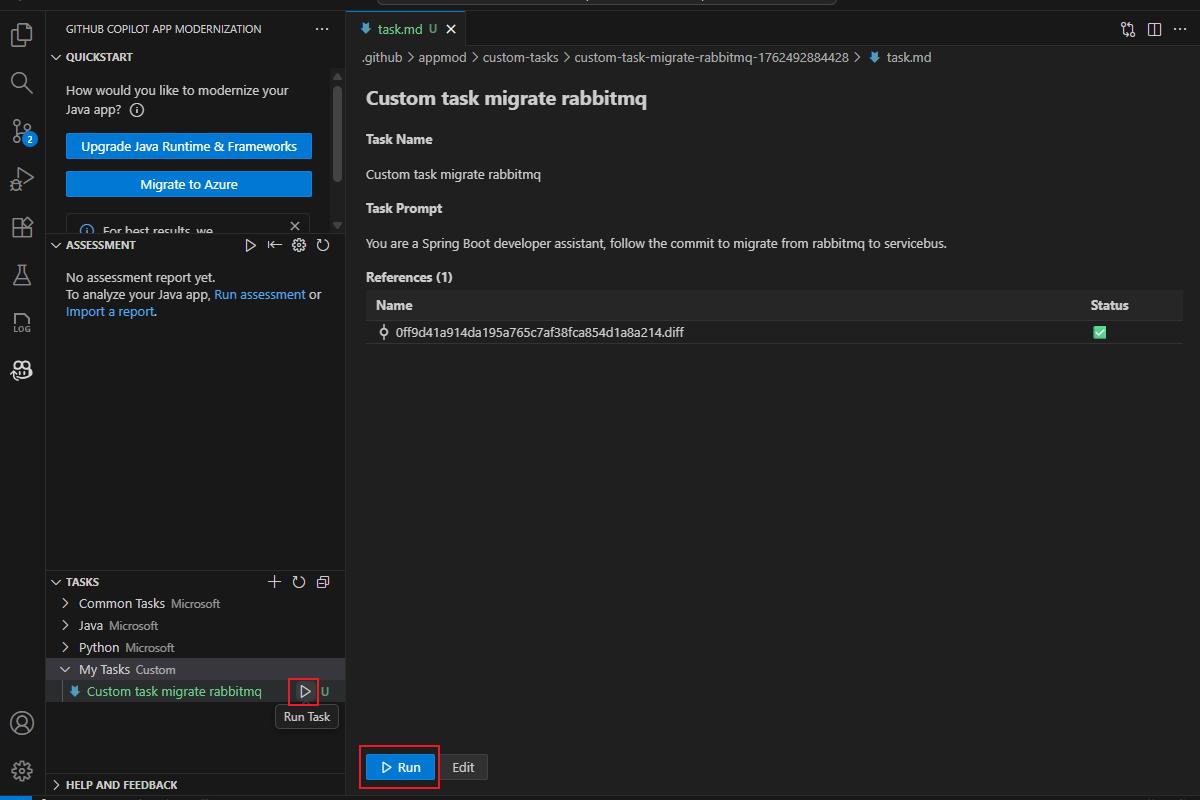
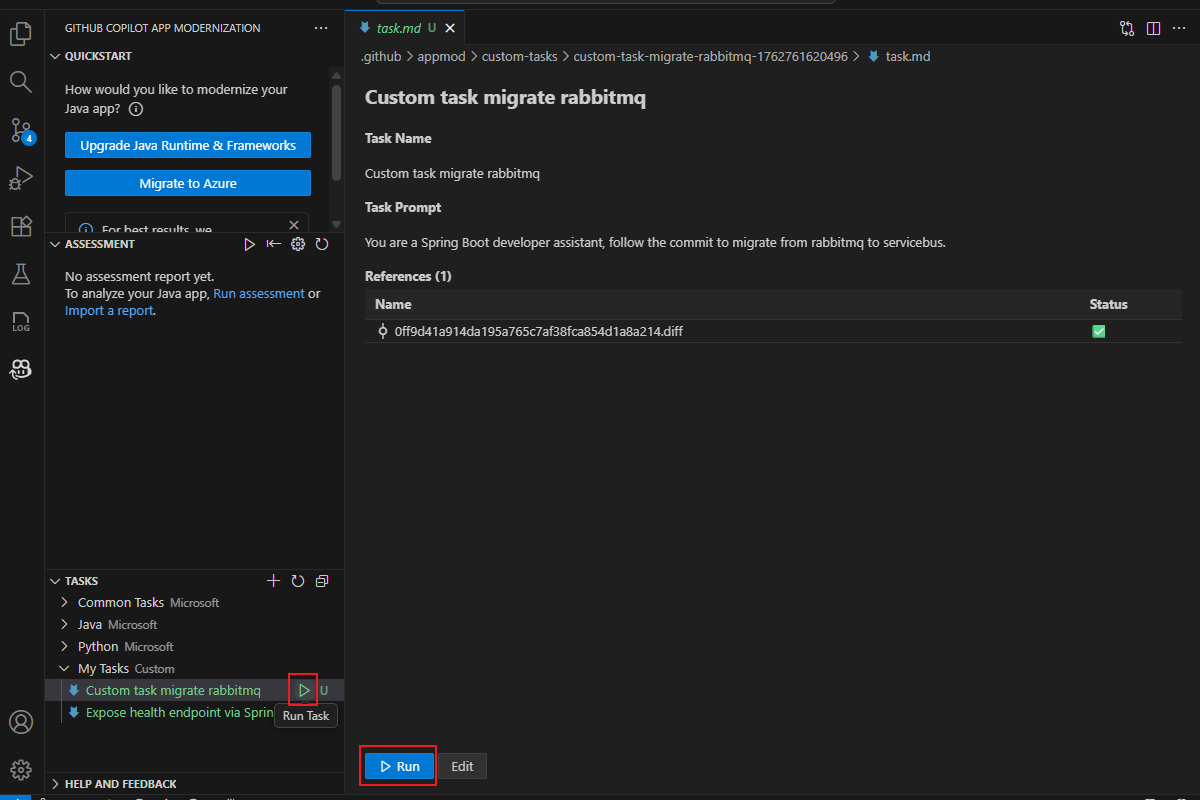
update

diff --git a/articles/java/migration/migrate-github-copilot-app-modernization-for-java-quickstart-create-and-apply-your-own-task.md b/articles/java/migration/migrate-github-copilot-app-modernization-for-java-quickstart-create-and-apply-your-own-task.md
@@ -29,6 +29,10 @@ The following video demonstrates using GitHub Copilot app modernization to creat
 
 ## Create your own task
 
+Now we support 3 ways to create a task: Text Files, External links and Git commits. You can use one method at a time, or combine multiple methods.
+
+### Using Git commits
+
 Use the following steps to create your own task:
 
 1. Clone the [Java migration copilot samples](https://github.com/Azure-Samples/java-migration-copilot-samples) repository.
@@ -41,7 +45,7 @@ Use the following steps to create your own task:
 
 1. A 'task.md' file opens, in the **Task Name** field, enter: "Custom task migrate rabbitmq", in the **Task Prompt** field, enter: "You are a Spring Boot developer assistant, follow the commit to migrate from rabbitmq to servicebus."
 
-   :::image type="content" source="./media/migrate-github-copilot-app-modernization-for-java/type-name-and-prompt.png" lightbox="./media/migrate-github-copilot-app-modernization-for-java/type-name-and-prompt.png" alt-text="Screenshot of Visual Studio Code that shows the Create a new task option.":::
+   :::image type="content" source="./media/migrate-github-copilot-app-modernization-for-java/type-name-and-prompt.png" lightbox="./media/migrate-github-copilot-app-modernization-for-java/type-name-and-prompt.png" alt-text="Screenshot of Visual Studio Code that shows the Create a new task using git commits.":::
 
 1. Click **Add References**, then select **Git commits** in the pop-up dialog box. 
 
@@ -54,6 +58,51 @@ Use the following steps to create your own task:
 1. Click the **Save** button. Your custom task for migrating `rabbitmq` now appears under **TASKS - My Tasks** section.
 
    :::image type="content" source="./media/migrate-github-copilot-app-modernization-for-java/save-task.png" lightbox="./media/migrate-github-copilot-app-modernization-for-java/save-task.png" alt-text="Screenshot of Visual Studio Code that shows the Tasks section with the custom task showing.":::
+
+### Using External links and Text Files
+
+1. Follow the predefined steps to open a 'task.md' file.
+
+1. In a opened 'task.md' file, enter the **Task Name** and **Task Prompt** as shown below:
+   - Task Name: Expose health endpoint via Spring Boot Actuator
+   - Task Prompt: You are a Spring Boot developer assistant, follow the Spring Boot Actuator documentation to add basic health endpoints for Azure Container Apps deployment.
+
+   :::image type="content" source="./media/migrate-github-copilot-app-modernization-for-java/type-ex-link-name-and-prompt.png" lightbox="./media/migrate-github-copilot-app-modernization-for-java/type-ex-link-name-and-prompt.png" alt-text="Screenshot of Visual Studio Code that shows the Create a new task using external link.":::
+
+1. Click the **Add References** button to add the Spring Boot Actuator official documentation as references. In the popped-up quick-pick window, select External links. Then paste the following link: "https://docs.spring.io/spring-boot/reference/actuator/endpoints.html" and press enter to confirm. 
+
+   :::image type="content" source="./media/migrate-github-copilot-app-modernization-for-java/type-link.png" lightbox="./media/migrate-github-copilot-app-modernization-for-java/type-link.png" alt-text="Screenshot of Visual Studio Code that shows the Create a new task typing link.":::
+
+1. Create a file to write the following info:
+   ```
+   expose everything over HTTP except the env and beans endpoints, use the following properties: 
+   management.endpoints.web.exposure.include=*
+   management.endpoints.web.exposure.exclude=env,beans
+   ``` 
+   
+1. Click the **Add References** button and select Text Files. Then find the file you created and click **Select File**.
+
+1. Now you have 2 references. Click Save to create the task.
+
+   :::image type="content" source="./media/migrate-github-copilot-app-modernization-for-java/save-file-and-link.png" lightbox="./media/migrate-github-copilot-app-modernization-for-java/save-file-and-link.png" alt-text="Screenshot of Visual Studio Code that shows the Create a new task by text files and link.":::
+
+## Share your own task
+
+Use the following steps you can share your own task:
+
+1. Copy your created tasks folder and then send to the one you want to share.
+
+   :::image type="content" source="./media/migrate-github-copilot-app-modernization-for-java/create-custom-folder.png" lightbox="./media/migrate-github-copilot-app-modernization-for-java/create-custom-folder.png" alt-text="Screenshot of Visual Studio Code that shows create a custom folder.":::
+
+1. Create **.github/appmod/custom-tasks** folder in source path.
+
+1. Paste the task folder here and click **Refresh Task** button.
+
+   :::image type="content" source="./media/migrate-github-copilot-app-modernization-for-java/refresh-task.png" lightbox="./media/migrate-github-copilot-app-modernization-for-java/refresh-task.png" alt-text="Screenshot of Visual Studio Code that shows refresh task.":::
+
+1. Now the share finished.
+
+   :::image type="content" source="./media/migrate-github-copilot-app-modernization-for-java/refreshed-task.png" lightbox="./media/migrate-github-copilot-app-modernization-for-java/refreshed-task.png" alt-text="Screenshot of Visual Studio Code that shows refreshed task.":::
 
 ## Apply your own task
 
